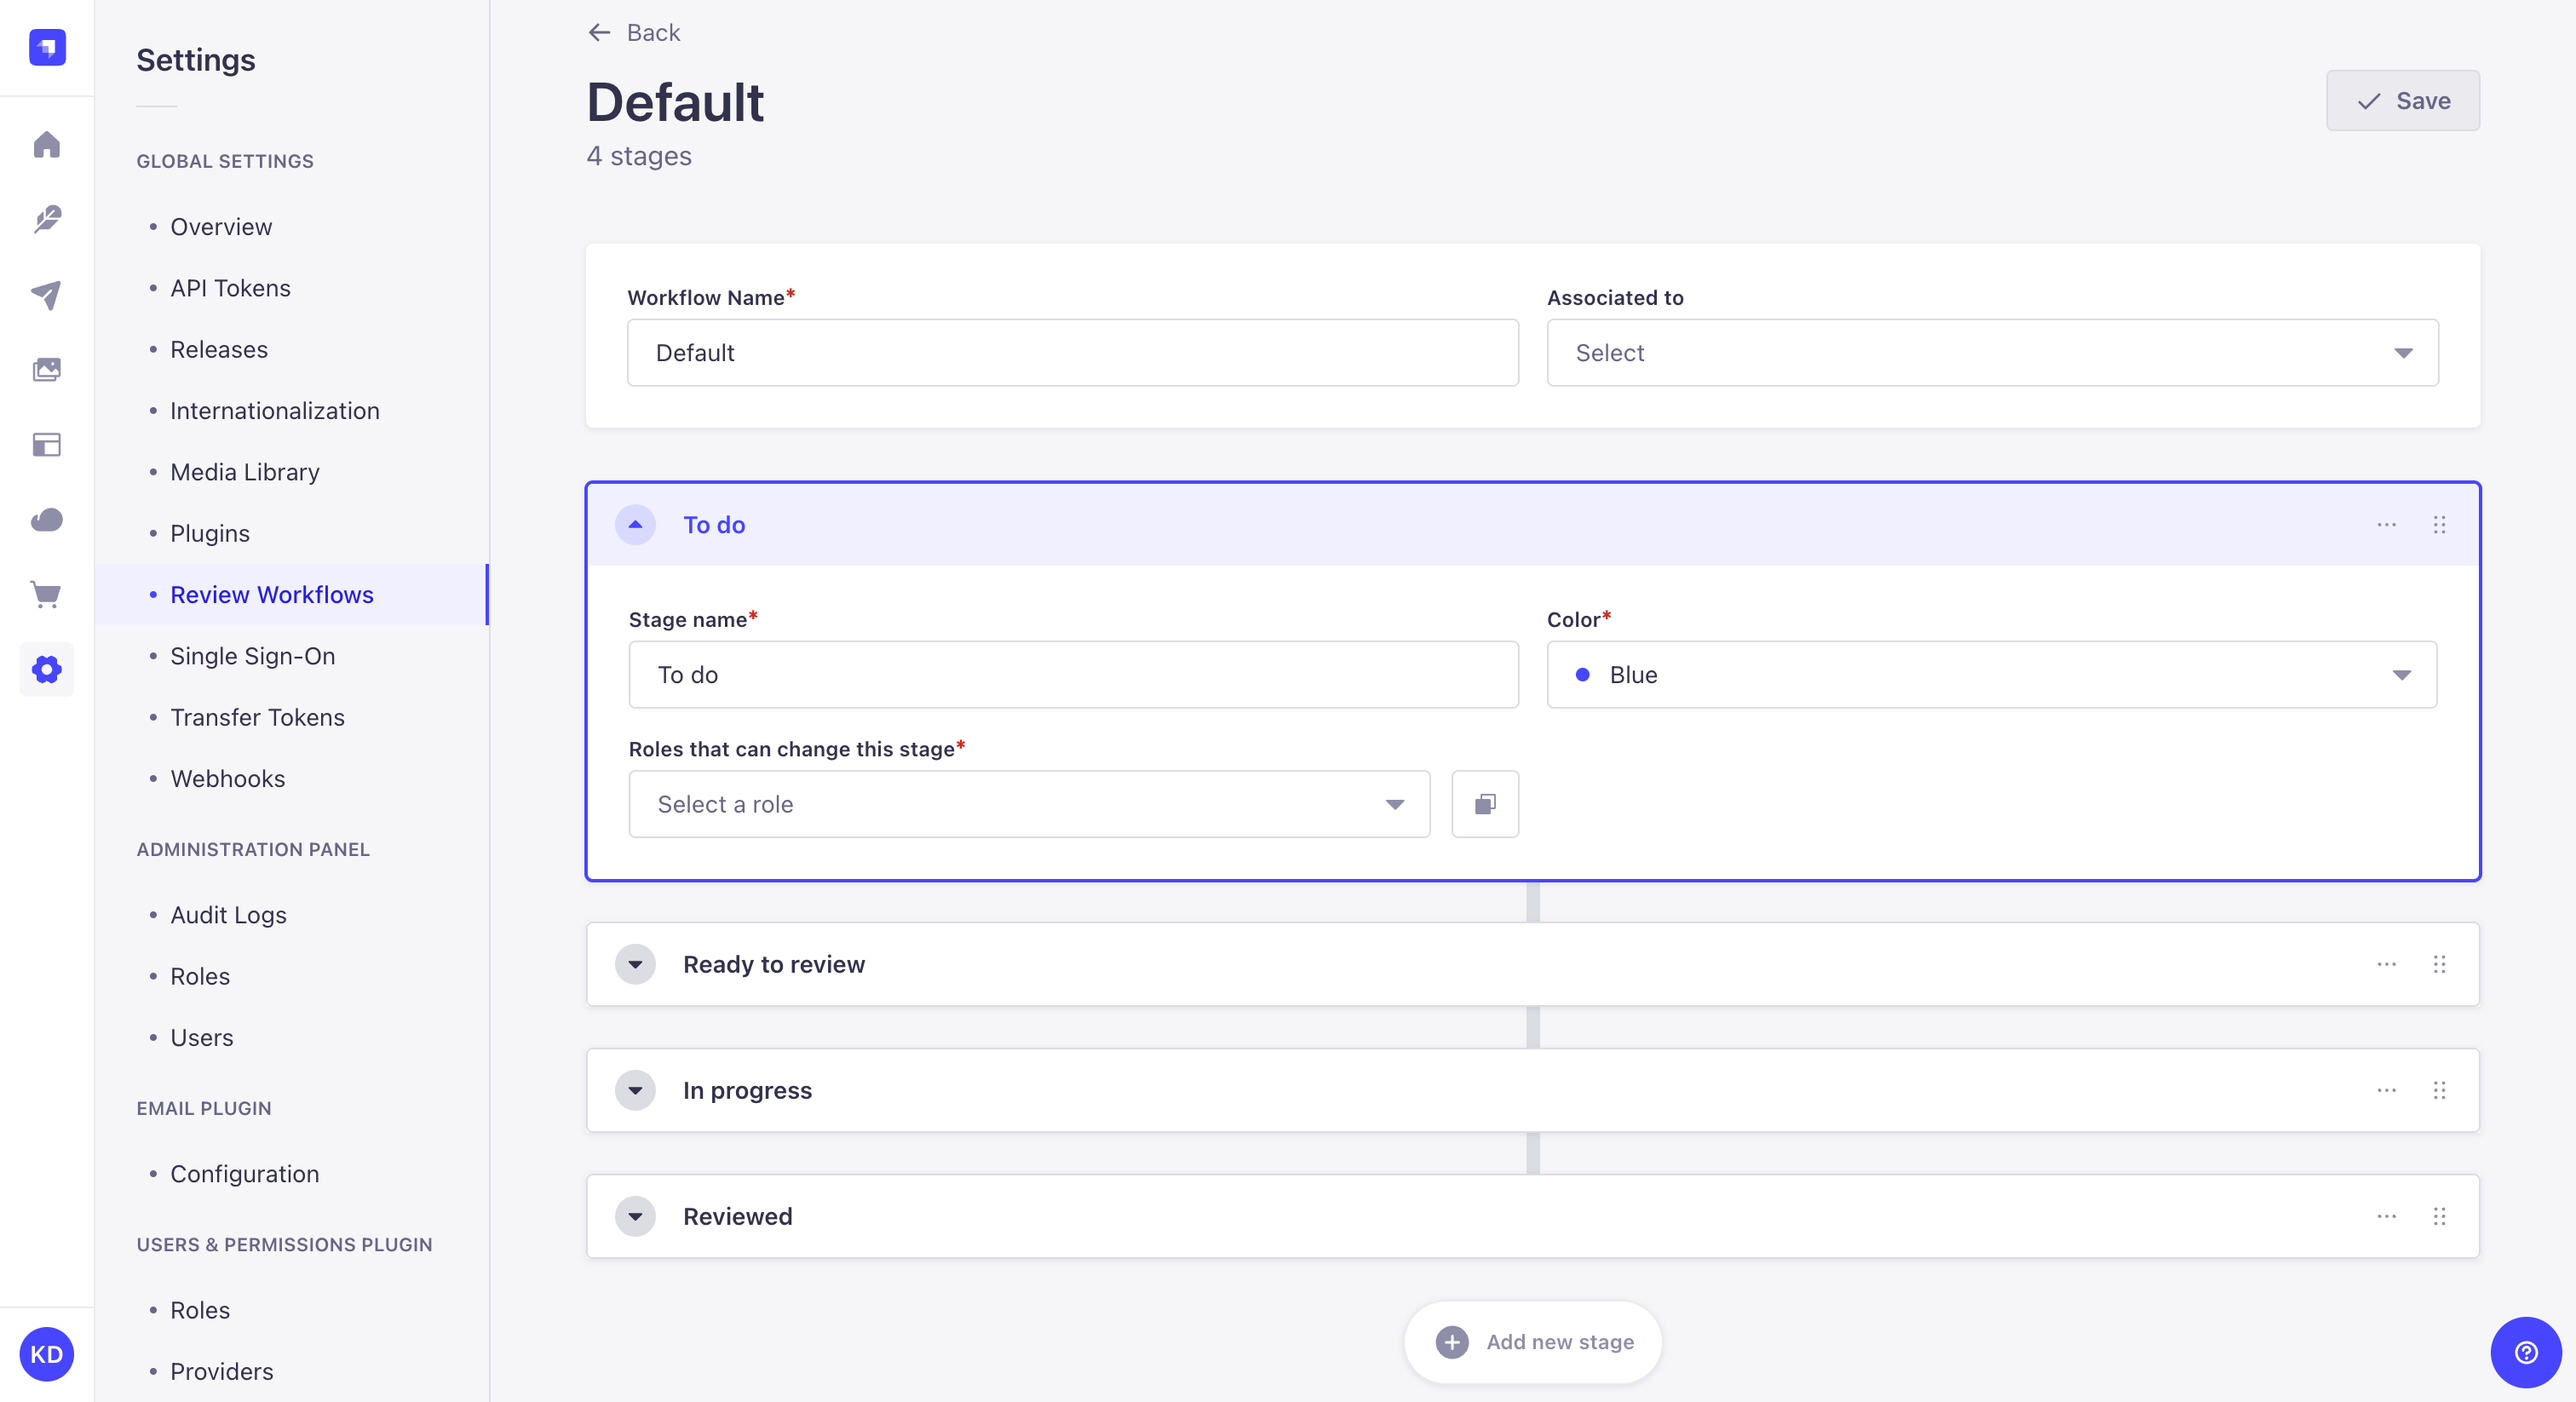
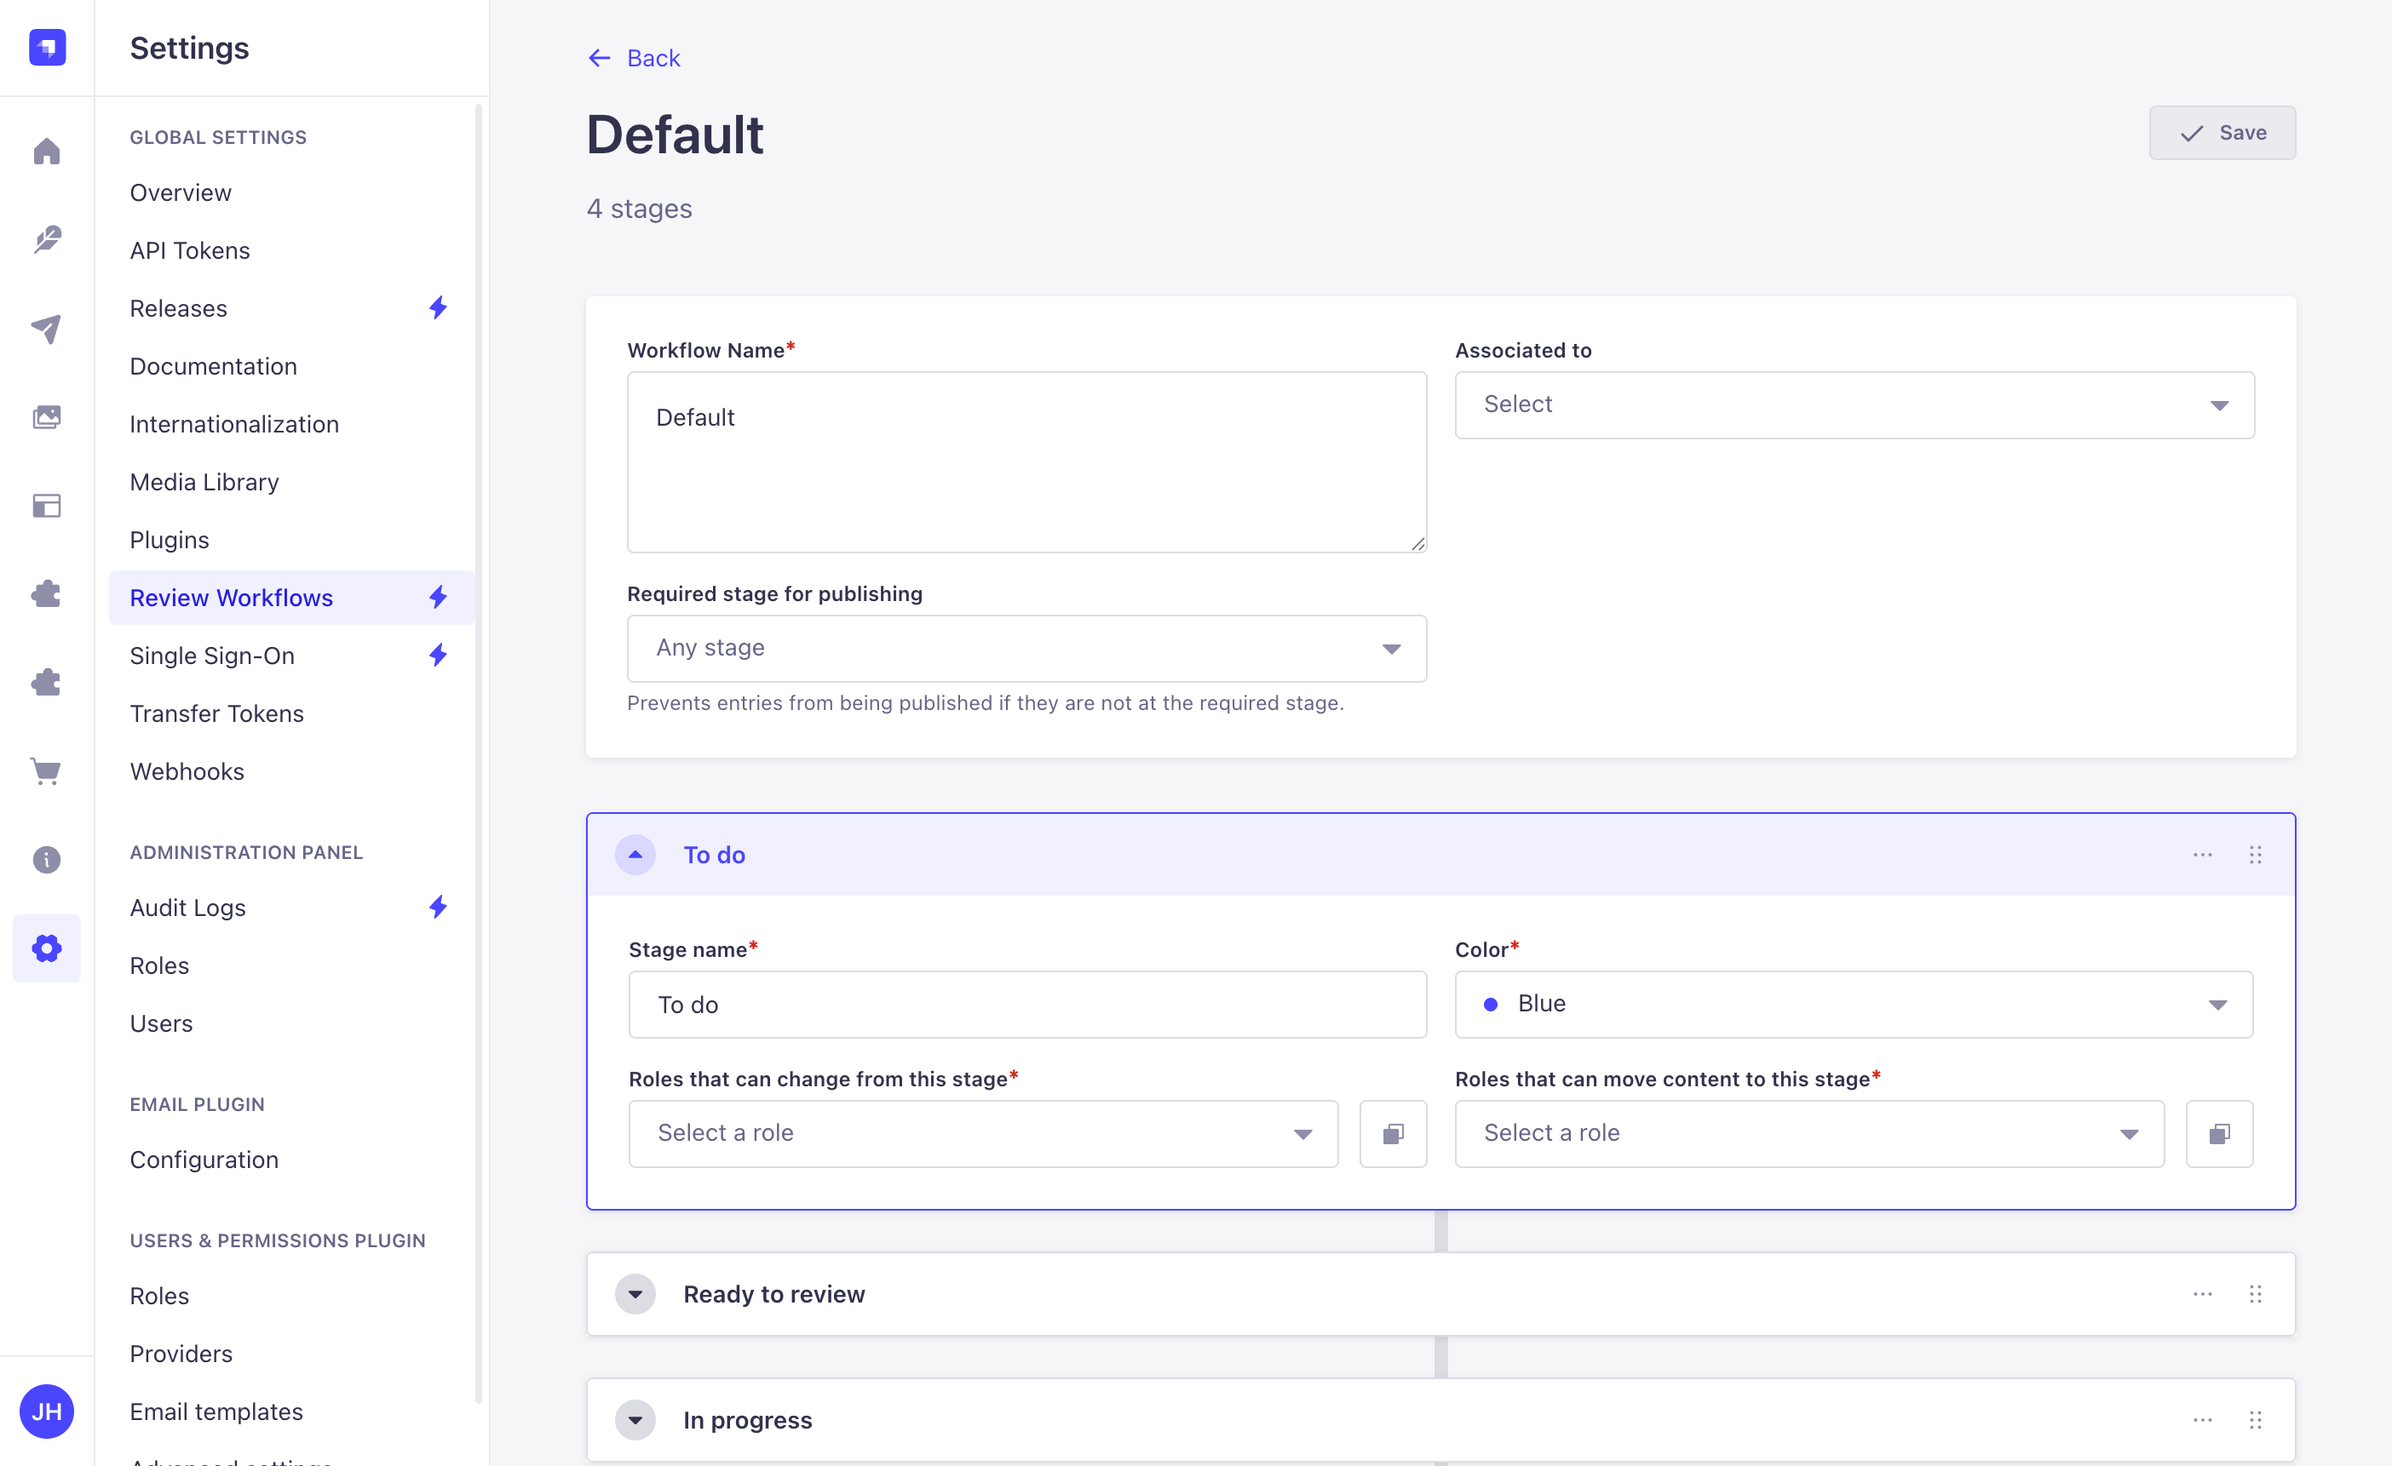
feat: review workflows stage to permissions

diff --git a/docusaurus/docs/cms/features/review-workflows.md b/docusaurus/docs/cms/features/review-workflows.md
@@ -65,13 +65,14 @@ The maximum number of <ExternalLink to="https://strapi.io/pricing-cloud" text="w
 1. Click on the **Add new stage** button.
 2. Write the *Stage name*.
 3. Select a *Color*.
-4. Select *Roles* that can change the stage, if the entity is currently in that review stage.
-5. Click on the **Save** button.
+4. Select *Roles that can change from this stage*, to define which roles can move content out of this stage.
+5. Select *Roles that can move content to this stage*, to define which roles can transition content into this stage.
+6. Click on the **Save** button.
 
 By default new stages are appended, but they can be reordered anytime using the <Icon name="dots-six-vertical" classes="ph-bold" /> button.
 
 :::tip
-To set up roles for each stage, you can either click "Apply to all stages" to apply the current roles to all other stages of the workflow or use "Duplicate stage" of the stage context menu.
+Each permission field has its own "Apply to all stages" option, which copies that field's role selection to every other stage in the workflow. Alternatively, use "Duplicate stage" from the stage context menu to copy the entire stage configuration including both permission types.
 :::
 
 #### Duplicating a stage
@@ -101,7 +102,7 @@ It is not possible to delete the last workflow.
 
 ### Changing review stage {#change-review-stage}
 
-As content is created and revised among your team, you can change the review stage of the content to any stage defined in the review workflow.
+As content is created and revised among your team, you can change the review stage of the content. The available target stages in the dropdown depend on your role's permissions: you must have permission to move content from the current stage and permission to move content to the target stage.
 
 1. Access the edit view of your content-type.
 2. In the *Review Workflows* box on the right side of the interface, click on the _Review stage_ drop-down list.
